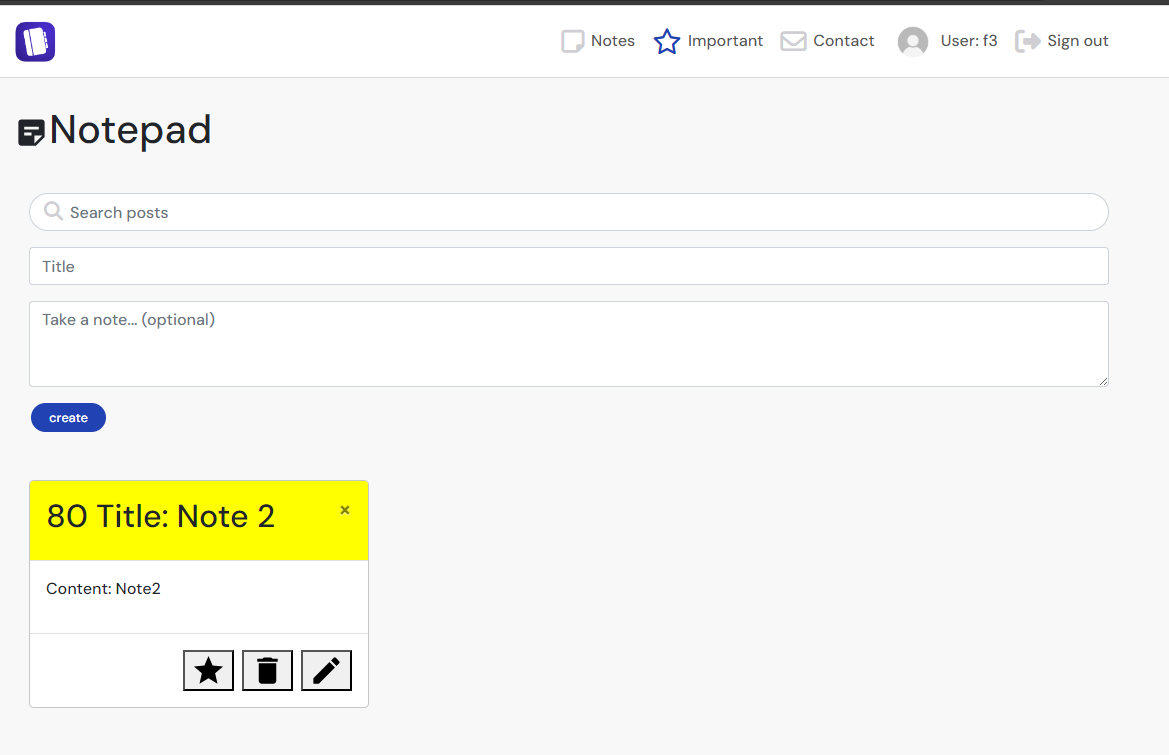
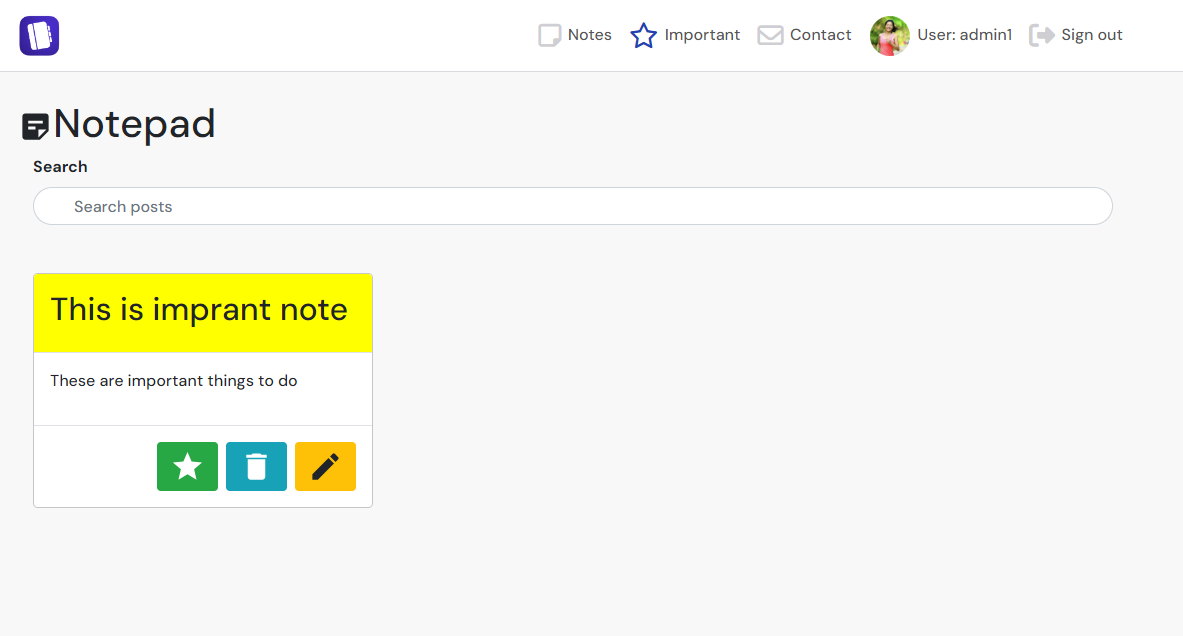
since i made changes on contact notes and edit note page, updated photos for features

diff --git a/README.md b/README.md
@@ -389,7 +389,16 @@ The Application Programming Interface (API) for this front-end application was c
 - Enables users to contact the admin/site owner to share feedback.
   -user stories: 15
 <details><summary>See feature screenshots</summary>
-  <img src="docs/userstories/user_story_14_sendfeedback.png">
+  <img src="docs/features/contactform.png">
+</details>
+
+### Create notes page
+- Create note page allows user to create a new note. 
+- Contains a form which user can submit to create a page.
+- User stories covered: 6
+
+<details><summary>See feature screenshot</summary>
+<img src="docs/features/createnote.png">
 </details>
 
 
@@ -397,10 +406,9 @@ The Application Programming Interface (API) for this front-end application was c
 - Main notes page is displayed for logged-in users 
 - Contains :
   - Search Bar.
-  - Create Note field
   - Notes created by sign in user.
 - Displays all notes ordered by the most recent one
-- User stories covered: 6, 7, 8, 9, 10, 11, 23, 12
+- User stories covered: 7, 8, 9, 10, 11, 23, 12
 
 <details><summary>See feature screenshot</summary>
 <img src="docs/features/notesmainpage.png">
@@ -410,7 +418,6 @@ The Application Programming Interface (API) for this front-end application was c
 - Main notes page is displayed for logged-in users 
 - Contains :
   - Search Bar.
-  - Create Note field
   - Notes created by sign in user.
 - Displays only important notes which were liked by a user.
 - User stories covered: 7, 8, 9, 10, 23, 13, 12
@@ -421,18 +428,6 @@ The Application Programming Interface (API) for this front-end application was c
 
 
 
-
-### Notes create form
-
-- Contains Note title and note description
-- Description field is optional
-- Allows a user to create notes
-- User stories covered: 6
-
-<details><summary>See feature screenshots</summary>
-<img src="docs/features/notescreateform.png">
-</details>
-
 ### Note Update form
 
 - Contains Note title and note description
@@ -440,6 +435,10 @@ The Application Programming Interface (API) for this front-end application was c
 - He may like/unlike note. 
 - If he clicks cancel he redirected to homepage.
 - User stories covered: 7, 8, 9, 10, 14, 12
+
+<details><summary>See feature screenshots</summary>
+<img src="docs/userstories/user_story_20_footer.png">
+</details>
 
 ### Note Footer
 
@@ -457,7 +456,7 @@ The Application Programming Interface (API) for this front-end application was c
 - Each Note has "Like/Unlick", Delete and Edit Note button.
 <details>
 <summary>See feature screenshots</summary>
-<img src="docs/features/updatesettingsmainpage.png">
+<img src="docs/features/noteupdateform.png">
 </details>
 
 ### Likes
